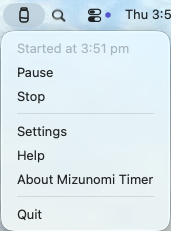
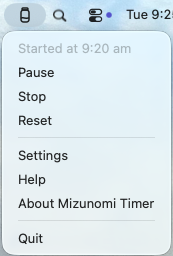
Add reset timer menu item

diff --git a/Sources/MizunomiTimer/StatusMenuController.swift b/Sources/MizunomiTimer/StatusMenuController.swift
@@ -5,6 +5,7 @@ protocol StatusMenuControllerDelegate: AnyObject {
     func statusMenuDidChooseStart()
     func statusMenuDidChoosePauseOrResume()
     func statusMenuDidChooseStop()
+    func statusMenuDidChooseReset()
     func statusMenuDidChooseSettings()
     func statusMenuDidChooseHelp()
     func statusMenuDidChooseAbout()
@@ -20,6 +21,7 @@ final class StatusMenuController: NSObject {
     private let startItem = NSMenuItem(title: "Start", action: #selector(start), keyEquivalent: "")
     private let pauseItem = NSMenuItem(title: "Pause", action: #selector(pauseOrResume), keyEquivalent: "")
     private let stopItem = NSMenuItem(title: "Stop", action: #selector(stop), keyEquivalent: "")
+    private let resetItem = NSMenuItem(title: "Reset", action: #selector(reset), keyEquivalent: "")
     private let settingsItem = NSMenuItem(title: "Settings", action: #selector(settings), keyEquivalent: "")
     private let helpItem = NSMenuItem(title: "Help", action: #selector(help), keyEquivalent: "")
     private let aboutItem = NSMenuItem(title: "About Mizunomi Timer", action: #selector(about), keyEquivalent: "")
@@ -38,13 +40,14 @@ final class StatusMenuController: NSObject {
 
         menu.autoenablesItems = false
 
-        for item in [startItem, pauseItem, stopItem, settingsItem, helpItem, aboutItem, quitItem] {
+        for item in [startItem, pauseItem, stopItem, resetItem, settingsItem, helpItem, aboutItem, quitItem] {
             item.target = self
         }
 
         menu.addItem(startItem)
         menu.addItem(pauseItem)
         menu.addItem(stopItem)
+        menu.addItem(resetItem)
         menu.addItem(.separator())
         menu.addItem(settingsItem)
         menu.addItem(helpItem)
@@ -64,24 +67,28 @@ final class StatusMenuController: NSObject {
             pauseItem.title = "Pause"
             pauseItem.isEnabled = false
             stopItem.isEnabled = false
+            resetItem.isEnabled = false
         case .waiting:
             startItem.title = "Start"
             startItem.isEnabled = true
             pauseItem.title = "Pause"
             pauseItem.isEnabled = false
             stopItem.isEnabled = true
+            resetItem.isEnabled = true
         case .running(let startedAt):
             startItem.title = "Started at \(TimeFormatter.displayTime(from: startedAt))"
             startItem.isEnabled = false
             pauseItem.title = "Pause"
             pauseItem.isEnabled = true
             stopItem.isEnabled = true
+            resetItem.isEnabled = true
         case .paused(let startedAt):
             startItem.title = "Started at \(TimeFormatter.displayTime(from: startedAt))"
             startItem.isEnabled = false
             pauseItem.title = "Resume"
             pauseItem.isEnabled = true
             stopItem.isEnabled = true
+            resetItem.isEnabled = true
         }
     }
 
@@ -95,6 +102,10 @@ final class StatusMenuController: NSObject {
 
     @objc private func stop() {
         delegate?.statusMenuDidChooseStop()
+    }
+
+    @objc private func reset() {
+        delegate?.statusMenuDidChooseReset()
     }
 
     @objc private func settings() {

diff --git a/Resources/UserManual.html b/Resources/UserManual.html
@@ -88,7 +88,7 @@
   <p>Open <strong>Mizunomi Timer</strong> from Applications. The app appears in the menu bar and starts the timer automatically by default.</p>
 
   <h3>Open the menu</h3>
-  <p>Click the Mizunomi Timer icon in the menu bar to start, pause, resume, stop, open Settings, or open Help.</p>
+  <p>Click the Mizunomi Timer icon in the menu bar to start, pause, resume, stop, reset, open Settings, or open Help.</p>
 
   <h2>Using the Timer</h2>
 
@@ -103,6 +103,9 @@
 
   <h3>Stop</h3>
   <p>Choose <strong>Stop</strong> to clear the running timer state and return the menu item to <strong>Start</strong>.</p>
+
+  <h3>Reset</h3>
+  <p>Choose <strong>Reset</strong> to stop the current timer and immediately start a fresh timer from now.</p>
 
   <h2>Timer Settings</h2>
 

diff --git a/Sources/MizunomiTimer/AppDelegate.swift b/Sources/MizunomiTimer/AppDelegate.swift
@@ -115,6 +115,13 @@ extension AppDelegate: StatusMenuControllerDelegate {
         timerController.stop()
     }
 
+    func statusMenuDidChooseReset() {
+        activeReminderPanel?.dismissWithoutRecording()
+        activeReminderPanel = nil
+        timerController.stop()
+        timerController.startNow()
+    }
+
     func statusMenuDidChooseSettings() {
         openSettingsWindow()
     }

diff --git a/README.md b/README.md
@@ -39,6 +39,7 @@ No backward compatibility is planned for earlier macOS releases.
 - If you skip one or more reminders, or do not respond to them, the next reminder reports how many minutes have passed without water.
 - Pause preserves the original schedule and skips reminder display until Resume.
 - Stop clears the running timer state and returns the menu item to Start.
+- Reset stops the current timer and immediately starts a fresh timer from now.
 - Interval history is kept in memory only and is reset when the app quits.
 
 ## Menu
@@ -48,6 +49,7 @@ The menu-bar menu contains:
 - Start, replaced by `Started at 2:30 pm` after the timer starts
 - Pause, replaced by Resume while paused
 - Stop
+- Reset
 - Settings
 - Help
 - About Mizunomi Timer
